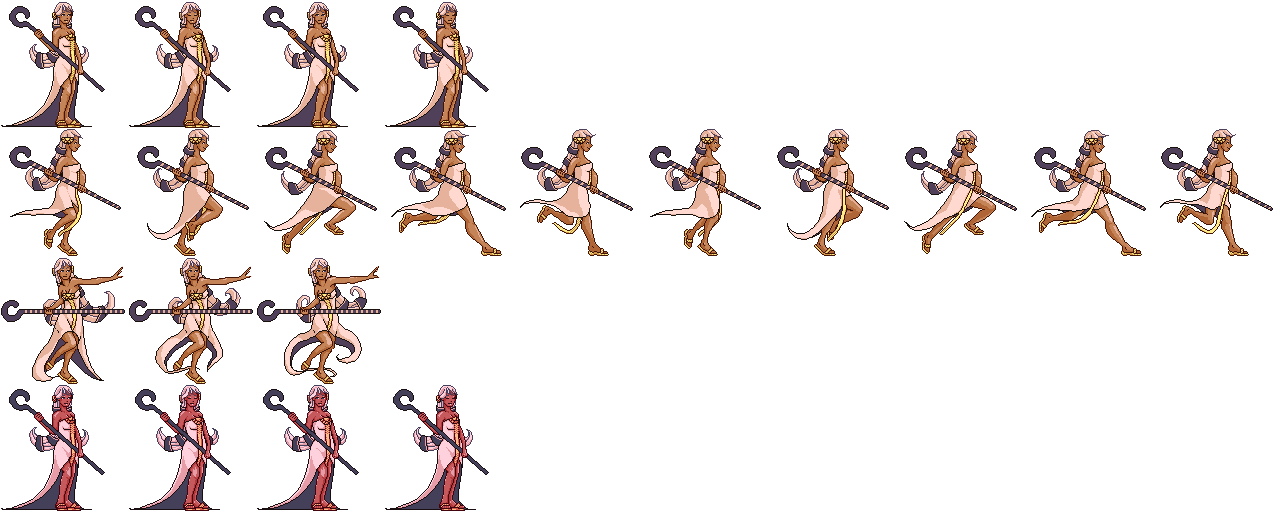
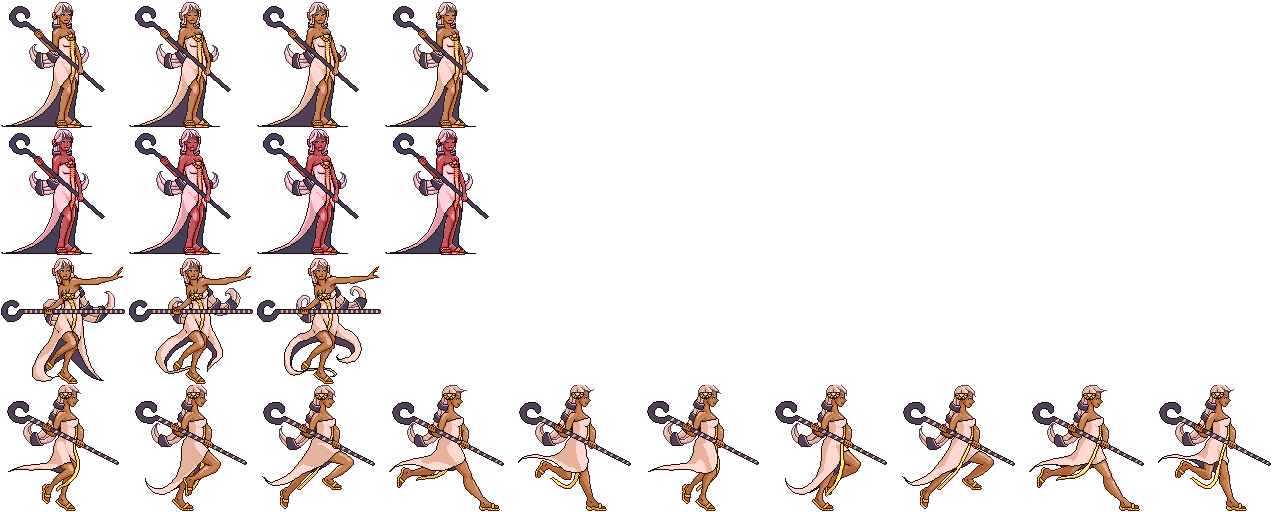
Implementing and testing level curse. Projectiles spawn, if player collides with a platform,  in a given min-max radius to the player in time intervals.

diff --git a/src/animationsystem.py b/src/animationsystem.py
@@ -37,31 +37,32 @@ class AnimationSystem(object):
             entity_ID = event.entity_ID
             if isinstance(event, events.UpdateImagePosition):
                 self.update_image_position(entity_ID, event.new_position)
-            if not self.world.appearance[entity_ID].play_animation_till_end:
-                if isinstance(event, events.EntityAttacks):
-                    self.play_attack_animation(entity_ID)
-                if isinstance(event, events.EntityJump):
-                    if not self.jump_animation_running(entity_ID):
-                        self.play_jump_animation(entity_ID)
-                if isinstance(event, events.EntityMovesLeft):
-                    self.world.appearance[entity_ID].flip = True
-                    if not self.walk_animation_running(entity_ID) and not self.jump_animation_running(entity_ID):
-                        self.play_walk_animation(entity_ID)
-                if isinstance(event, events.EntityMovesRight):
-                    self.world.appearance[entity_ID].flip = False
-                    if not self.walk_animation_running(entity_ID) and not self.jump_animation_running(entity_ID):
-                        self.play_walk_animation(entity_ID)
-                if isinstance(event, events.EntityStopMovingLeft):
-                    if not self.idle_animation_running(entity_ID) and not self.jump_animation_running(entity_ID):
-                        self.play_idle_animation(entity_ID)
-                if isinstance(event, events.EntityStopMovingRight):
-                    if not self.idle_animation_running(entity_ID) and not self.jump_animation_running(entity_ID):
-                        self.play_idle_animation(entity_ID)
-                if isinstance(event, events.EntityGrounded):
-                    if self.jump_animation_running(entity_ID):
-                        self.play_idle_animation(event.entity_ID)
-                if isinstance(event, events.EntityDies):
-                    self.play_death_animation(entity_ID)
+            if entity_ID in self.world.appearance:
+                if not self.world.appearance[entity_ID].play_animation_till_end:
+                    if isinstance(event, events.EntityAttacks):
+                        self.play_attack_animation(entity_ID)
+                    if isinstance(event, events.EntityJump):
+                        if not self.jump_animation_running(entity_ID):
+                            self.play_jump_animation(entity_ID)
+                    if isinstance(event, events.EntityMovesLeft):
+                        self.world.appearance[entity_ID].flip = True
+                        if not self.walk_animation_running(entity_ID) and not self.jump_animation_running(entity_ID):
+                            self.play_walk_animation(entity_ID)
+                    if isinstance(event, events.EntityMovesRight):
+                        self.world.appearance[entity_ID].flip = False
+                        if not self.walk_animation_running(entity_ID) and not self.jump_animation_running(entity_ID):
+                            self.play_walk_animation(entity_ID)
+                    if isinstance(event, events.EntityStopMovingLeft):
+                        if not self.idle_animation_running(entity_ID) and not self.jump_animation_running(entity_ID):
+                            self.play_idle_animation(entity_ID)
+                    if isinstance(event, events.EntityStopMovingRight):
+                        if not self.idle_animation_running(entity_ID) and not self.jump_animation_running(entity_ID):
+                            self.play_idle_animation(entity_ID)
+                    if isinstance(event, events.EntityGrounded):
+                        if self.jump_animation_running(entity_ID):
+                            self.play_idle_animation(event.entity_ID)
+                    if isinstance(event, events.EntityDies):
+                        self.play_death_animation(entity_ID)
                                                 
     def run_animations(self, dt):
         """Computes which animation frame should be displayed.
@@ -120,11 +121,11 @@ class AnimationSystem(object):
         
     def walk_animation_running(self, entity_ID):
         current_animation = self.world.appearance[entity_ID].current_animation
-        return current_animation == 1
+        return current_animation == 3
     
     def play_walk_animation(self, entity_ID):
-        #Walk animation is 1
-        self.world.appearance[entity_ID].current_animation = 1
+        #Walk animation is 3
+        self.world.appearance[entity_ID].current_animation = 3
         self.world.appearance[entity_ID].current_frame_x = 0
     
     def jump_animation_running(self, entity_ID):
@@ -147,7 +148,7 @@ class AnimationSystem(object):
         return current_animation == 1
     
     def play_death_animation(self, entity_ID):
-        #Death animation is 3
+        #Death animation is 1
         self.world.appearance[entity_ID].play_animation_till_end = True
         self.world.appearance[entity_ID].play_once = True
         self.world.appearance[entity_ID].current_animation = 1

diff --git a/src/combatsystem.py b/src/combatsystem.py
@@ -37,7 +37,7 @@ class CombatSystem():
             self.update()
         if isinstance(event, events.EntityAttackRequest):
             if self.world.active_entity(event.entity_ID):
-                self.execute_attack(event.entity_ID, event.attack_Nr)
+                self.execute_attack(event.entity_ID, event.attack_Nr, event.spawn_attack_pos, event.attack_dir)
         if isinstance(event, events.RemoveEntityFromTheGame):
             self.world.to_remove.append(event.entity_ID)
 
@@ -106,7 +106,7 @@ class CombatSystem():
             self.world.destroy_entity(entity_ID)
         self.world.to_remove = list()
 
-    def execute_attack(self, entity_ID, attack_Nr):
+    def execute_attack(self, entity_ID, attack_Nr, spawn_attack_pos=None, attack_dir=None):
         """Entity executes one of its possible attacks if cooldown is ready.
 
         :param entity_ID: entity
@@ -114,12 +114,18 @@ class CombatSystem():
         :param attack_Nr: number of the attacks that is executed
         :type attack_Nr: int
         """
-        position = (self.world.collider[entity_ID].center[0],
-                    self.world.collider[entity_ID].center[1])
-        if entity_ID in self.world.players:
-            orb_ID = self.world.players[entity_ID].orb_ID
-            position = self.world.appearance[orb_ID].rect.center
-        direction = self.world.direction[entity_ID]
+        if spawn_attack_pos:
+            position = spawn_attack_pos
+        else:
+            position = (self.world.collider[entity_ID].center[0],
+                        self.world.collider[entity_ID].center[1])
+            if entity_ID in self.world.players:
+                orb_ID = self.world.players[entity_ID].orb_ID
+                position = self.world.appearance[orb_ID].rect.center
+        if attack_dir:
+            direction = attack_dir
+        else:
+            direction = self.world.direction[entity_ID]
         velocity = [direction[0] * 3,
                     direction[1] * 3]
         spawned = self.world.attacks[entity_ID][attack_Nr].spawn_particles(velocity, position)
@@ -130,13 +136,18 @@ class CombatSystem():
             #Show effect
             effect_ID = self.world.attacks[entity_ID][attack_Nr].effect_ID
             if effect_ID:
-                #Calculate position and angle of effect
-                player = self.world.players[entity_ID]
-                #Get the orb position of the player
-                orb_position = self.world.appearance[player.orb_ID].rect.center
+                if entity_ID == self.world.player:
+                    #Calculate position and angle of effect
+                    player = self.world.players[entity_ID]
+                    #Get the orb position of the player
+                    eff_position = self.world.appearance[player.orb_ID].rect.center
+                    rot_angle = self.world.appearance[player.orb_ID].angle
+                else:
+                    eff_position = position
+                    rot_angle = 0
                 #Update position and rotation of the attack effect
-                self.world.appearance[effect_ID].rect.center = orb_position
-                self.world.appearance[effect_ID].angle = self.world.appearance[player.orb_ID].angle
+                self.world.appearance[effect_ID].rect.center = eff_position
+                self.world.appearance[effect_ID].angle = rot_angle
                 self.world.appearance[effect_ID].play_animation = True
 
 #    def handle_collision(self, collider_ID, collidee_ID):

diff --git a/src/ai.py b/src/ai.py
@@ -7,6 +7,7 @@
 from math import sqrt
 import random
 import events
+import chaosparticle
 
 def calculate_octant(vector):
     """Calculates in which octant vector lies and returns the normalized vector for this octant.
@@ -136,8 +137,8 @@ class AI():
         self.event_manager.post(ev)
         #self.world.velocity[self.entity_ID][0] = 0
 
-    def attack(self, attack_Nr):
-        ev = events.EntityAttackRequest(self.entity_ID, attack_Nr)
+    def attack(self, attack_Nr, spawn_attack_pos=None, attack_dir=None):
+        ev = events.EntityAttackRequest(self.entity_ID, attack_Nr, spawn_attack_pos, attack_dir)
         self.event_manager.post(ev)
 
     def walking_left(self):
@@ -271,3 +272,64 @@ class AI_1(AI):
                 #Set duration of idle state
                 self.counter = 30
                 self.current_action = self.idle
+
+class Level1_curse(AI):
+    """Handles Level curse's AI.
+    
+    Spawns in random position projectiles in direction to player.
+
+    :Attributes:
+        - *event_manager* (:class:`events.EventManager`): event manager
+        - *world* (:class:`gameWorld.GameWorld`): game world contains entities
+        - *current_action* (function): current update function for AI
+        - *entity_ID* (int): this AI belongs to this entity
+    """
+
+    def __init__(self, world, entity_ID, event_manager):
+        """
+        :param world: game world contains entities
+        :type world: gameWorld.GameWorld
+        """
+        AI.__init__(self, world, entity_ID, event_manager)
+        #Set idle function for the AI
+        self.current_action = self.idle
+    
+    def idle(self, event):
+        """Idle, lasts ... frames long.
+        
+        No action happen here.
+
+        :param event: occured event
+        :type event: events.Event
+        """
+        if isinstance(event, events.TickEvent):
+            self.counter -= 1
+            if self.counter == 0:
+                self.counter = 60
+                self.current_action = self.cast_curse
+
+    def cast_curse(self, event):
+        if isinstance(event, events.CollisionOccured):
+            if event.collider_ID == self.world.player:
+                player_position = self.world.collider[self.world.player].center
+                spawn_attack_position = self.calculate_random_position_in_radius(player_position, 200, 300)
+                direction = [player_position[0] - spawn_attack_position[0],
+                             player_position[1] - spawn_attack_position[1]]
+                direction = calculate_octant(direction)
+                if direction[0] == 0 and direction[1] == 0:
+                    #Direction (0,0) is not valid
+                    direction = (1, 0)
+                self.attack(0, spawn_attack_position, direction)
+                self.current_action = self.idle
+
+    def calculate_random_position_in_radius(self, point, min_distance, max_distance):
+        radius = random_(min_distance, max_distance)
+        vector = [1, 0]
+        angle = random_(0, 360)
+        vector = chaosparticle.get_rotated_vector(vector, angle)
+        #Vector is rotated and normalized now
+        #Scale and translate vector
+        vector = [vector[0]*radius + point[0], vector[1]*radius + point[1]]
+        vector = map(int, vector)
+        return vector
+

diff --git a/src/gameworld.py b/src/gameworld.py
@@ -109,6 +109,27 @@ class GameWorld(object):
         #Characters and their attacks are created, so fields can be added
         for field in fields:
             self.create_field(field.position, field.mass)
+        #Create Level curse:
+        #---
+        damage = 10
+        cooldown = 30
+        position = [0,0]
+        
+        temp_eff = pygame.image.load(os.path.join('data', 'attack_effect.png'))
+        eff_sprite = components.Appearance(temp_eff.convert_alpha(), 62, 62, [6], [cooldown])
+        eff_sprite.play_animation_till_end = True
+        eff_sprite.play_once = True
+        effect_ID = self.create_entity((eff_sprite, ))
+        curse_AI = ai.Level1_curse(self, 0, self.event_manager)
+        curse_ID = self.create_entity((curse_AI, ))
+        curse_AI.entity_ID = curse_ID 
+        particle_emitter = components.Attack(self, damage, cooldown, position,
+                                             1, 'proj.png', 60,
+                                             [1, 0], [0, 0], 15, effect_ID)
+        attack_list = list()
+        attack_list.append(particle_emitter)
+        self.add_component_to_entity(curse_ID, attack_list)
+        #---
         #Quad Tree
         self.tree = quadTree.QuadTree(walls)
 
@@ -140,8 +161,8 @@ class GameWorld(object):
         vel = components.Velocity([0, 0])
         #Create players animations
         temp = pygame.image.load(os.path.join('data', 'char.png')).convert_alpha()
-        anim_list = [4, 10, 3, 4]
-        anim_time_list = [240, 60, 44, 60]
+        anim_list = [4, 4, 3, 10]
+        anim_time_list = [240, 180, 44, 60]
         anim = components.Appearance(temp, 128, 128, anim_list, anim_time_list)
         anim.rect.center = coll.center
         direction = components.Direction([1, 0])
@@ -187,7 +208,7 @@ class GameWorld(object):
         vel = components.Velocity([0, 0])
         #Create enemy's animations
         temp = pygame.image.load(os.path.join('data', 'char.png')).convert_alpha()
-        anim_list = [4, 10, 3, 4]
+        anim_list = [4, 4, 3, 10]
         anim_time_list = [240, 60, 44, 60]
         anim = components.Appearance(temp, 128, 128, anim_list, anim_time_list)
         anim.rect.center = coll.center

diff --git a/src/chaosparticle.py b/src/chaosparticle.py
@@ -59,7 +59,7 @@ class Particle():
         - *velocity* (list): velocity vector
         - *acceleration* (list): acceleration vector can be used as gravity as well
     """
-    def __init__(self, sprite, life, position, velocity, acceleration, ID=None):
+    def __init__(self, sprite, life, position, velocity, acceleration):
         """
         :param sprite: graphical representation for the particle
         :type sprite: ---
@@ -77,7 +77,6 @@ class Particle():
         self.position = position
         self.velocity = velocity
         self.acceleration = acceleration
-        self.ID = ID
 
 class Emitter():
     """Particle emitter.
@@ -94,7 +93,7 @@ class Emitter():
     """
 
     def __init__(self, cooldown, position, amount, sprite, life,
-                 velocity, acceleration, spread_angle=0, fields=None, ID=None):
+                 velocity, acceleration, spread_angle=0, fields=None):
         """
         :param cooldown: time till new particles can be spawned in frames
         :type cooldown: int
@@ -119,7 +118,6 @@ class Emitter():
         self.counter = 0
         self.particles = list()
         self.position = position
-        self.ID = ID
         self.particle_data = Particle(sprite, life, position,
                                       velocity, acceleration)
         self.amount = amount
@@ -174,7 +172,7 @@ class Emitter():
                                                self.particle_data.life,
                                                position,
                                                vel,
-                                               self.particle_data.acceleration, self.ID)
+                                               self.particle_data.acceleration)
                 self.particles.append(new_part)
                 new_particles.append(new_part)
             #Reset counter, emitter is on the cooldown now

diff --git a/src/events.py b/src/events.py
@@ -243,7 +243,7 @@ class EntityAttacks(Event):
         self.name = "Entity Jump Event"
         self.entity_ID = entity_ID
         self.attack_Nr = attack_Nr
-        
+
 class EntityDies(Event):
     
     def __init__(self, entity_ID):
@@ -289,10 +289,13 @@ class EntityJumpRequest(Event):
 
 class EntityAttackRequest(Event):
     
-    def __init__(self, entity_ID, attack_Nr):
+    def __init__(self, entity_ID, attack_Nr, spawn_attack_pos=None, attack_dir=None):
         self.name = "Entity Jump Event"
         self.entity_ID = entity_ID
         self.attack_Nr = attack_Nr
+        self.spawn_attack_pos = spawn_attack_pos
+        self.attack_dir = attack_dir
+
 #-------------------------------------------------------------
 
 class EventManager:

diff --git a/src/statesystem.py b/src/statesystem.py
@@ -55,5 +55,10 @@ class StateSystem():
                 if isinstance(event, events.EntityJumpRequest):
                     if self.world.velocity[entity_ID][1] == 0:
                         self.world.velocity[self.world.player][1] = -vel*2
+            else:
+                if entity_ID in self.world.velocity:
+                    #Inactive entities stop movement
+                    self.world.velocity[entity_ID][0] = 0
+                    self.world.velocity[entity_ID][1] = 0
             if isinstance(event, events.EntityDies):
                 self.world.inactive_entities.append(entity_ID)
